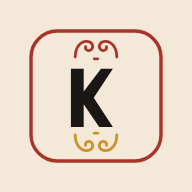
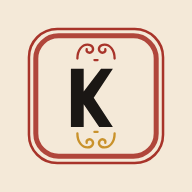
Give the mark a bound edge, and opening a document an order
Two things, both about the same complaint: it looked basic.

The mark gets a second keyline. A shyrdak is bound at the edge — a fine line
right at the hem and a heavier band inside it — and that doubling is most of
what separates a made panel from a box drawn round a letter. The horns come in
slightly to sit inside the new border.

Opening a document used to be instant and complete, as though the page had
been sitting there the whole time: it read as a page load rather than as
opening something. Now it has an order. The card grows into the writing
surface, the header settles onto it, the title and the actions follow a
breath later, and the toolbar fills in left to right by group — groups rather
than buttons, because twelve buttons arriving one at a time is a queue and
four groups is a gesture. Under 400ms end to end, because this is the moment
somebody wants to start typing.

The card-to-document morph existed but only Notes ever used it. Sheets, Slides
and Tasks have it now too.

Nothing in the sequence animates opacity. A stalled animation with `both` fill
leaves a document permanently invisible — that has happened in this app before
— while a stalled transform leaves it a few pixels out of place and perfectly
readable.

Checked in a browser in all four editors: every surface ends at opacity 1,
every entrance actually runs, and no console errors. That check caught a real
one — the Tasks ref had been declared inside the wrong component and threw on
every open.
[…]

Changed region(s): [[0.125, 0.125, 0.875, 0.875]]

diff --git a/uni-notes/src/styles/motion.css b/uni-notes/src/styles/motion.css
@@ -761,3 +761,104 @@ html {
     transform: translateY(-10px) scale(1.015);
   }
 }
+
+/* --------------------------- opening a document ---------------------------
+ *
+ * A document used to appear all at once, complete, as though it had been
+ * sitting there the whole time. It reads as a page load rather than as opening
+ * something. This gives it an order: the card you tapped grows into the
+ * surface (see lib/morph.js), the header settles down onto it, the title and
+ * the actions follow, and the toolbar fills in left to right.
+ *
+ * Nothing here animates opacity. A stalled animation with `both` fill would
+ * leave a document permanently invisible, which has happened here before; a
+ * stalled transform leaves it a few pixels out of place and readable. The
+ * whole sequence is under 400ms, because this is the moment somebody wants to
+ * start typing, not watch something.
+ */
+
+.editor-header {
+  animation: header-settle var(--t-base) var(--ease-enter) both;
+}
+
+@keyframes header-settle {
+  from {
+    transform: translateY(-8px);
+  }
+}
+
+.editor-title-block {
+  animation: rise-small var(--t-base) var(--ease-enter) 50ms both;
+}
+
+.editor-header-actions {
+  animation: rise-small var(--t-base) var(--ease-enter) 90ms both;
+}
+
+@keyframes rise-small {
+  from {
+    transform: translateY(5px);
+  }
+}
+
+/* The writing surface, whichever kind of document it turns out to be. */
+.editor-paper,
+.sheet-grid,
+.deck-main,
+.plan-body,
+.board-view {
+  animation: surface-rise var(--t-slow) var(--ease-enter) 40ms both;
+}
+
+@keyframes surface-rise {
+  from {
+    transform: translateY(12px) scale(0.994);
+  }
+}
+
+/*
+ * The toolbar fills in from the left, one group at a time. Groups rather than
+ * buttons: twelve buttons arriving one by one is a queue, four groups is a
+ * gesture.
+ */
+.toolbar .tool-group,
+.deck-toolbar > * {
+  animation: tool-in var(--t-base) var(--spring-soft) both;
+}
+
+.toolbar .tool-group:nth-child(1),
+.deck-toolbar > *:nth-child(1) { animation-delay: 90ms; }
+.toolbar .tool-group:nth-child(2),
+.deck-toolbar > *:nth-child(2) { animation-delay: 125ms; }
+.toolbar .tool-group:nth-child(3),
+.deck-toolbar > *:nth-child(3) { animation-delay: 160ms; }
+.toolbar .tool-group:nth-child(n + 4),
+.deck-toolbar > *:nth-child(n + 4) { animation-delay: 195ms; }
+
+@keyframes tool-in {
+  from {
+    transform: translateY(6px) scale(0.97);
+  }
+}
+
+/*
+ * Opening is worth animating. Typing in the thing you opened is not — a
+ * toolbar that re-runs its entrance every time React rerenders the editor
+ * would be unbearable. These all use `both` fill and no infinite repeat, so
+ * they play once per mount, and the editors mount once per document.
+ */
+
+@media (prefers-reduced-motion: reduce) {
+  .editor-header,
+  .editor-title-block,
+  .editor-header-actions,
+  .editor-paper,
+  .sheet-grid,
+  .deck-main,
+  .plan-body,
+  .board-view,
+  .toolbar .tool-group,
+  .deck-toolbar > * {
+    animation: none;
+  }
+}

diff --git a/uni-notes/src/components/brand/Logo.jsx b/uni-notes/src/components/brand/Logo.jsx
@@ -85,7 +85,7 @@ function HornPair({ x, y, rotate = 0, scale = 0.38, colour = RED }) {
       transform={`translate(${x} ${y}) rotate(${rotate}) scale(${scale}) translate(-24 -11)`}
       fill="none"
       stroke={colour}
-      strokeWidth="3.2"
+      strokeWidth="3"
       strokeLinecap="round"
     >
       <path d={HORN} />
@@ -142,23 +142,39 @@ export function LogoMark({ size = 40, tone = 'tile', className = '' }) {
       {onTile ? (
         <>
           <rect width="64" height="64" rx="14.5" fill={CREAM} />
+          {/*
+            Two keylines, not one. A shyrdak is bound at the edge — a fine line
+            right at the hem and a heavier band inside it. One line reads as a
+            box drawn round a letter; two read as a panel that was made.
+          */}
           <rect
-            x="3.5"
-            y="3.5"
-            width="57"
-            height="57"
-            rx="11.5"
+            x="2.6"
+            y="2.6"
+            width="58.8"
+            height="58.8"
+            rx="12.4"
             fill="none"
             stroke={RED}
-            strokeWidth="1.5"
+            strokeWidth="1.1"
+          />
+          <rect
+            x="5.6"
+            y="5.6"
+            width="52.8"
+            height="52.8"
+            rx="10"
+            fill="none"
+            stroke={RED}
+            strokeWidth="2.2"
+            opacity="0.9"
           />
         </>
       ) : null}
 
       {ornate ? (
         <>
-          <HornPair x={32} y={11.5} colour={RED} />
-          <HornPair x={32} y={52.5} rotate={180} colour={onTile ? GOLD : RED} />
+          <HornPair x={32} y={12.5} scale={0.34} colour={RED} />
+          <HornPair x={32} y={51.5} rotate={180} scale={0.34} colour={onTile ? GOLD : RED} />
         </>
       ) : null}
 

diff --git a/uni-notes/src/components/slides/DeckEditor.jsx b/uni-notes/src/components/slides/DeckEditor.jsx
@@ -1,4 +1,4 @@
-import { useCallback, useMemo, useState } from 'react';
+import { useCallback, useMemo, useRef, useState } from 'react';
 import Icon from '../ui/Icon.jsx';
 import ConfirmDialog from '../ui/ConfirmDialog.jsx';
 import PresentMode from './PresentMode.jsx';
@@ -8,6 +8,7 @@ import ShareDialog from '../unisave/ShareDialog.jsx';
 import Facepile from '../collab/Facepile.jsx';
 import { LAYOUTS, THEMES, makeSlide } from '../../lib/templates/slides.js';
 import { useData } from '../../context/DataContext.jsx';
+import { useMorphTarget } from '../../lib/morph.js';
 import { useT } from '../../i18n/index.jsx';
 
 /** Which text fields each layout actually shows, so the editor matches the slide. */
@@ -39,6 +40,9 @@ export default function DeckEditor({ deckId, onBack }) {
   const deck = presentations.find((item) => item.id === deckId);
   const slides = deck?.slides ?? [];
 
+  // The card the reader tapped grows into this page.
+  const stageRef = useRef(null);
+  useMorphTarget(stageRef);
   const [index, setIndex] = useState(0);
   const [presenting, setPresenting] = useState(false);
   const [confirmDelete, setConfirmDelete] = useState(false);
@@ -185,7 +189,7 @@ export default function DeckEditor({ deckId, onBack }) {
           </button>
         </aside>
 
-        <div className="deck-main">
+        <div className="deck-main" ref={stageRef}>
           <div className="deck-toolbar" role="toolbar" aria-label={t('slides.layout')}>
             <label className="select-field">
               <span className="sr-only">{t('slides.layout')}</span>

diff --git a/uni-notes/src/components/tasks/PlanEditor.jsx b/uni-notes/src/components/tasks/PlanEditor.jsx
@@ -7,7 +7,7 @@
  * enough to sit on the row itself.
  */
 
-import { useMemo, useState } from 'react';
+import { useMemo, useRef, useState } from 'react';
 import ConfirmDialog from '../ui/ConfirmDialog.jsx';
 import Icon from '../ui/Icon.jsx';
 import SaveIndicator from '../SaveIndicator.jsx';
@@ -22,6 +22,7 @@ import {
   taskState,
 } from '../../lib/templates/tasks.js';
 import { useData } from '../../context/DataContext.jsx';
+import { useMorphTarget } from '../../lib/morph.js';
 import { useT } from '../../i18n/index.jsx';
 
 const FILTERS = [
@@ -171,6 +172,10 @@ export default function PlanEditor({ planId, onBack }) {
   const { t } = useT();
   const { plans, update, remove, mayEdit } = useData();
 
+  // The card the reader tapped grows into this page.
+  const bodyRef = useRef(null);
+  useMorphTarget(bodyRef);
+
   const plan = plans.find((item) => item.id === planId);
   const editable = mayEdit(plan);
 
@@ -266,7 +271,7 @@ export default function PlanEditor({ planId, onBack }) {
         </div>
       </header>
 
-      <div className="plan-body">
+      <div className="plan-body" ref={bodyRef}>
         <div className="plan-summary">
           <div className="plan-progress" role="img" aria-label={t('tasks.percentDone', { percent: stats.percent })}>
             <span style={{ width: `${stats.percent}%` }} />

diff --git a/uni-notes/src/components/sheets/SheetEditor.jsx b/uni-notes/src/components/sheets/SheetEditor.jsx
@@ -14,6 +14,7 @@ import {
 } from '../../lib/formula.js';
 import { DEFAULT_COLS, DEFAULT_ROWS } from '../../lib/templates/sheets.js';
 import { useData } from '../../context/DataContext.jsx';
+import { useMorphTarget } from '../../lib/morph.js';
 import { useT } from '../../i18n/index.jsx';
 
 const MAX_ROWS = 200;
@@ -32,6 +33,9 @@ export default function SheetEditor({ sheetId, onBack }) {
 
   const sheet = sheets.find((item) => item.id === sheetId);
 
+  // The card the reader tapped grows into this page.
+  const sheetRef = useRef(null);
+  useMorphTarget(sheetRef);
   const [selected, setSelected] = useState({ row: 0, col: 0 });
   const [draft, setDraft] = useState(null); // null = not editing
   // Where the in-progress edit is being typed: 'cell' or 'formula'. Both write
@@ -417,7 +421,7 @@ export default function SheetEditor({ sheetId, onBack }) {
         aria-label={sheet.title || t('common.untitled')}
         onKeyDown={onGridKeyDown}
       >
-        <table className="sheet-grid">
+        <table className="sheet-grid" ref={sheetRef}>
           <thead>
             <tr>
               <th className="sheet-corner" aria-hidden="true" />
